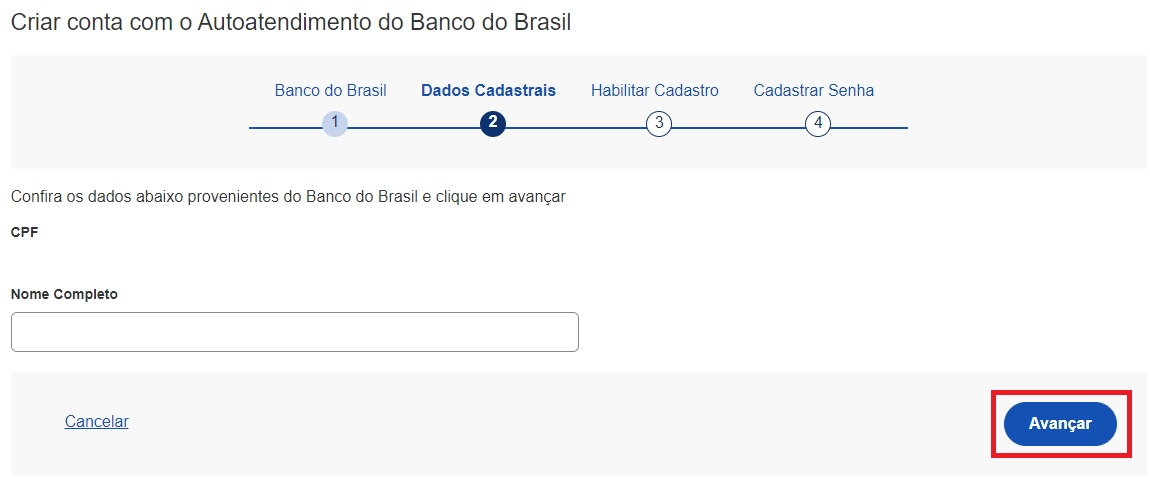
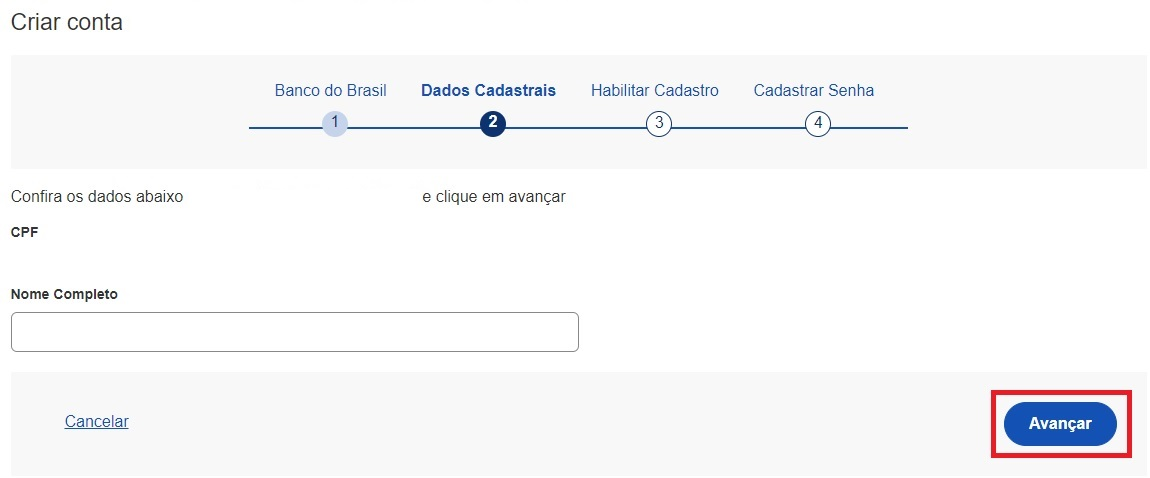
Atualizar criacao conta pelo aplicativo meu gov

Changed region(s): [[0.0913, 0.0293, 0.5174, 0.0586], [0.1522, 0.3808, 0.3652, 0.4393]]

diff --git a/_perguntasdafaq/criacaocontapelogovbrmobile.rst b/_perguntasdafaq/criacaocontapelogovbrmobile.rst
@@ -1,31 +1,54 @@
 Como Cadastrar Conta de Acesso pelo Aplicativo Meu gov.br
 =========================================================
 
-1. Baixe e instale o aplicativo Meu gov.br. `Orientações para baixar o aplicativo Meu GOV.BR`_.
+- Baixe e instale o aplicativo Meu gov.br. `Orientações para baixar o aplicativo Meu GOV.BR`_.
 
-2. Acesse o aplicativo Meu GOV.BR no celular:
+- Acesse o aplicativo Meu GOV.BR no celular:
 
 .. figure:: _images/icone_inicio_aplicativo_meu_gov.jpg
    :align: center
    :alt: 
 
-3. Clique no botão **Criar Conta gov.br**
+- Clique no botão **Entrar com gov.br**
 
-.. figure:: _images/imagem_tela_inicial_botoes_meu_gov_mobile_2_versao.jpg
+.. figure:: _images/imagem_tela_inicial_botoes_meu_gov_mobile_3_versao.jpg
    :align: center
    :height: 770 px
    :width: 400 px
    :alt:   
 
-4. Digite CPF e clique no botão **Avançar**
+- Clique no botão **Crie sua Conta**
 
-.. figure:: _images/digitar_cpf_criacao_conta_govbr_mobile.jpg
+.. figure:: _images/imagem_tela_inicial_botao_crie_sua_conta_mobile_novogov.jpg
    :align: center
    :height: 770 px
    :width: 400 px
    :alt:   
 
-5. Marque **Li e concorco com os termos e condições** e clique no botão **Aceitar**.
+- Selecione opção deseja criar a conta do Login Único
+
+.. figure:: _images/opcoes_criacao_conta_tela_mobile_novogov.jpg 
+   :align: center
+   :height: 770 px
+   :width: 400 px
+   :alt:
+
+1. Validação Facial no App Meu gov.br
+-------------------------------------   
+
+- Selecione opção **Validação Facial no App Meu gov.br**
+
+.. figure:: _images/opcoes_criacao_conta_validacao_facial_app_novogovbr.jpg
+   :align: center
+   :alt:  
+   
+- Digite o CPF, marque as opções **Li e estou de acordo com os termos de uso** e **Não sou robô**. Clique no botão **Ir para Meu gov.br**
+
+.. figure:: _images/digitar_cpf_criacao_conta_direcionar_novogovbr.jpg
+   :align: center
+   :alt:   
+
+- Marque **Li e concorco com os termos e condições** e clique no botão **Aceitar**.
 
 .. figure:: _images/termo_aceite_govbr_mobile.jpg
    :align: center
@@ -33,7 +56,7 @@
    :width: 400 px
    :alt:
 
-6. Posicionar o rosto de frente para câmera frontal do celular seguindo as orientações de piscar os olhos e sorrir até sistema validar as informações. Após, aguarde o aplicativo tirar foto.
+- Posicionar o rosto de frente para câmera frontal do celular seguindo as orientações de piscar os olhos e sorrir até sistema validar as informações. Após, aguarde o aplicativo tirar foto.
    
 .. figure:: _images/inicio_validacao_facial_govbr_mobile.jpg
    :align: center
@@ -41,7 +64,7 @@
    :width: 400 px
    :alt:
 
-7. Clique no botão **Enviar Foto**  
+- Clique no botão **Enviar Foto**  
 
 .. figure:: _images/tela_indicacao_enviar_foto_validacao_govbrmobile.jpg
    :align: center
@@ -49,7 +72,7 @@
    :width: 400 px
    :alt: 
 
-8. Clique no botão **OK** e continue o processo da cadastro da conta
+- Clique no botão **OK** e continue o processo da cadastro da conta
 
 .. figure:: _images/tela_confirmacao_validacao_govbr_continuar_mobile.jpg
    :align: center
@@ -57,7 +80,7 @@
    :width: 400 px
    :alt:   
 
-9. Digite o Nome e clique no botão **Seguinte**
+- Digite o Nome e clique no botão **Seguinte**
 
 .. figure:: _images/preenchimento_nome_cadastramento_conta_govbr_mobile.jpg
    :height: 770 px
@@ -65,7 +88,7 @@
    :align: center
    :alt:   
 
-10. Selecione a opção deseja ativar conta (email ou sms), preenche o conteúdo da opção (conta de email ou telefone celular) e clique no botão **Enviar Código**.   
+- Selecione a opção deseja ativar conta (email ou sms), preenche o conteúdo da opção (conta de email ou telefone celular) e clique no botão **Enviar Código**.   
    
 .. figure:: _images/tela_envio_codigo_ativacao_conta_mobile.jpg
    :height: 770 px
@@ -73,7 +96,7 @@
    :align: center
    :alt:
 
-11. Digite o código de acesso e clique no botão **Confirmar**   
+- Digite o código de acesso e clique no botão **Confirmar**   
    
 .. figure:: _images/tela_digitar_codigo_confirmacao_govbr_mobile.jpg
    :height: 770 px
@@ -81,7 +104,7 @@
    :align: center
    :alt:   
 
-12. Clique no botão **Seguinte** para cadastrar senha de acesso
+- Clique no botão **Seguinte** para cadastrar senha de acesso
 
 .. figure:: _images/tela_confirmacao_informacoes_email_telefone_govbr_mobile.jpg
    :height: 770 px
@@ -89,14 +112,173 @@
    :align: center
    :alt:   
 
-13. Preencha com senha escolhida, marque opção **Eu aceito os termo de uso e política de privacidade** e clique no botão **Criar Conta** para finalizar o cadastro.   
+- Preencha com senha escolhida, marque opção **Eu aceito os termo de uso e política de privacidade** e clique no botão **Criar Conta** para finalizar o cadastro.   
    
 .. figure:: _images/tela_criacao_senha_govbrmobile_por_mobile.jpg
    :height: 770 px
    :width: 400 px
    :align: center
+   :alt:
+
+2. Banco do Brasil
+------------------ 
+
+- Tenha em mãos os números da agência, conta e senha de oito digitos do banco do brasil. Selecione opção **Banco do Brasil**.
+
+.. figure:: _images/opcoes_criacao_conta_banco_brasil_novogovbr.jpg
+   :align: center
+   :alt:
+
+- Marque a opção **Li e estou de acordo com termos de uso** e clique no botão **Ir para Banco do Brasil**
+
+.. figure:: _images/tela_clicar_botao_ir_banco_brasil_criar_senha_mobile_novogovbr.jpg 
+   :align: center
+   :alt:   
+   
+- Clique no botão **Continuar**.
+
+.. figure:: _images/telacadastrobancobbdeclaracaobuscarinformacoes.jpg
+   :align: center
+   :alt:   
+   
+- Digite o número de agência, conta-corrente, senha de 8 digitos. Clique no botão **Entrar**.
+
+.. figure:: _images/telacadastrobancobbdigitaragenciaconta.jpg
+   :align: center
+   :alt:   
+    
+- Digite o código de autorização recebido no aplicativo do Banco do Brasil. Clique no botão **Autorizar**.
+
+.. figure:: _images/telacadastrobancobbdigitarcodigodeacesso.jpg
+   :align: center
+   :alt: 	
+
+- Conferir CPF e Nome. Clicar no botão **Avançar**   
+
+.. figure:: _images/conferir_cpf_nome_banco_brasil_versao_mobile_novogovbr.jpg
+   :align: center
    :alt:   
 
+- Selecione a opção deseja ativar conta (email ou sms), preenche o conteúdo da opção (conta de email ou telefone celular) e clique no botão **Avançar**.   
+   
+.. figure:: _images/tela_envio_codigo_ativacao_conta_mobile_novogov.jpg
+   :align: center
+   :alt:
+   
+- Digite o código de acesso e clique no botão **Avançar**   
+   
+.. figure:: _images/tela_digitar_codigo_confirmacao_govbr_mobile_novogovbr.jpg
+   :align: center
+   :alt:   
+
+- Preencha com senha escolhida e clique no botão **Concluir** para finalizar o cadastro.   
+   
+.. figure:: _images/tela_criacao_senha_por_mobile_novogov.jpg
+   :align: center
+   :alt:
+
+3. Internet Banking
+-------------------
+
+- Existem alguns bancos conveniados para permitir a criação da conta por meio da geração de uma senha temporária. A senha deverá ser trocada no primeiro acesso. Para isso, acesse o passo a passo de cada banco presente no link `acesse o passo a passo de cada banco`_.
+
+- De posse da senha temporária, retorne tela inicial do login, digite o CPF e clique no botão **Avançar**. Existem senhas temporárias que precisam de 24h a 48h para ativação pelos bancos.   
+
+.. figure:: _images/telainicialcombotaoproximagovbr_novagovbr.jpg
+   :align: center
+   :alt:
+
+- Digite senha temporária, senha definitiva e marque opção **Não sou robô**. Após, clique no botão **Concluir** para criação da conta    
+
+.. figure:: _images/tela_senha_temporaria_versao_mobile_novogovbr.jpg
+   :align: center
+   :alt:      
+
+4. Número do CPF
+--------------------------------------------------
+
+- Selecione opção **Número do CPF**
+
+.. figure:: _images/opcoes_criacao_conta_numero_cpf_novogovbr.jpg
+   :align: center
+   :alt: 
+
+- Tenha em mãos um documento de identidade, número do CPF, nome completo, e-mail e número do celular. Preencha CPF, Nome, Marcar as opções **Li e estou de acordo com os Termos de uso.** e **Não sou robô**. Clique no botão **Avançar**
+
+.. figure:: _images/telafazercadastrocombotaoavancar_versao_mobile_novogovbr.jpg
+   :align: center
+   :alt: 
+   
+- Responda as perguntas relacionadas às suas informações pessoais. Clique no botão **Avançar**.
+
+.. figure:: _images/perguntascadastroinicialgovbr_versao_mobile_novogovbr.jpg
+   :align: center
+   :alt: 
+
+- Selecione a opção deseja ativar conta (email ou sms), preenche o conteúdo da opção (conta de email ou telefone celular) e clique no botão **Avançar**.   
+   
+.. figure:: _images/tela_envio_codigo_ativacao_conta_mobile_novogov.jpg
+   :align: center
+   :alt:
+   
+- Digite o código de acesso e clique no botão **Avançar**   
+   
+.. figure:: _images/tela_digitar_codigo_confirmacao_govbr_mobile_novogovbr.jpg
+   :align: center
+   :alt:   
+
+- Preencha com senha escolhida e clique no botão **Concluir** para finalizar o cadastro.   
+   
+.. figure:: _images/tela_criacao_senha_por_mobile_novogov.jpg
+   :align: center
+   :alt:
+
+5. Certificado Digital em Nuvem
+-------------------------------
+
+- Ative o certificado digital de pessoal física conforme orientações de cada provedor de certificado em nuvem (certficado deverá ser compatível com ICP-Brasil). Selecionar opção **Certificado em Nuvem**
+
+.. figure:: _images/opcoes_criacao_conta_certificado_digital_nuvem_novogovbr.jpg
+   :align: center
+   :alt:   
+
+- Selecione a opção de certificado em nuvem que deseja cadastrar conta.
+
+.. figure:: _images/opcoes_certificado_em_nuvem_versao_mobile_novogovbr.jpg  
+   :align: center
+   :alt:  
+
+- Marque a opção **Li e estou de acordo com termos de uso** e clique no botão **Ir para ** 
+
+.. figure:: _images/tela_apresentacao_escolha_certificado_botao_ir_para_versao_mobile.jpg  
+   :align: center
+   :alt:
+
+- Conferir CPF e Nome. Clicar no botão **Avançar**   
+
+.. figure:: _images/conferir_cpf_nome_banco_brasil_versao_mobile_novogovbr.jpg
+   :align: center
+   :alt:   
+
+- Selecione a opção deseja ativar conta (email ou sms), preenche o conteúdo da opção (conta de email ou telefone celular) e clique no botão **Avançar**.   
+   
+.. figure:: _images/tela_envio_codigo_ativacao_conta_mobile_novogov.jpg
+   :align: center
+   :alt:
+   
+- Digite o código de acesso e clique no botão **Avançar**   
+   
+.. figure:: _images/tela_digitar_codigo_confirmacao_govbr_mobile_novogovbr.jpg
+   :align: center
+   :alt:   
+
+- Preencha com senha escolhida e clique no botão **Concluir** para finalizar o cadastro.   
+   
+.. figure:: _images/tela_criacao_senha_por_mobile_novogov.jpg
+   :align: center
+   :alt:   
+   
 .. |site externo| image:: _images/site-ext.gif
 .. _`Orientações para baixar o aplicativo Meu GOV.BR` : oqueemeugovbrmobile.html
+.. _`acesse o passo a passo de cada banco` : naotenhoacessoaaminhasenhatemporaria.html
             
